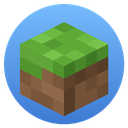
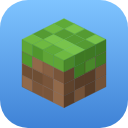
Add Codenames, Fortnite, PUBG, Brawlhalla, ARK and Warframe game roles
- Six new game roles with their emojis, same as the first five: no colour,
  no permissions, at the bottom of the role list with Other right above
  @everyone.
- All game emojis are now app-icon style tiles built from the games' own
  logos (Valorant, Fortnite, PUBG, Roblox from their logo artwork; Among
  Us crewmate and Minecraft grass block; Brawlhalla, ARK and Warframe
  traced from their app icons; Codenames agent card).

Claude-Session: https://claude.ai/code/session_0195VG55h43onPfKbabrZpGi

diff --git a/tests/gameRoles.test.js b/tests/gameRoles.test.js
@@ -52,15 +52,16 @@ describe('game roles', () => {
   test('creates colourless roles with no permissions and their emoji as icon, at the bottom', async () => {
     const { guild, cache } = guildWith({ roles: [makeRole('chaos', 'chaos', 1, { color: 5 })] });
     const result = await ensureGameRoles(guild);
-    assert.equal(result.created, 5);
-    assert.equal(result.icons, 5);
+    assert.equal(result.created, GAME_ROLES.length);
+    assert.equal(result.icons, GAME_ROLES.length);
     for (const game of GAME_ROLES) {
       const role = [...cache.values()].find((r) => r.name === game.name);
       assert.equal(role.createdWith.color, 0);
       assert.deepEqual(role.createdWith.permissions, []);
       assert.equal(role.createdWith.icon, game.icon);
     }
-    assert.deepEqual(bottomNames(cache), ['Valorant', 'Among Us', 'Minecraft', 'Roblox', 'Other']);
+    assert.deepEqual(bottomNames(cache), GAME_ROLES.map((game) => game.name));
+    assert.equal(bottomNames(cache).at(-1), 'Other');
     assert.ok(cache.get('chaos').position > GAME_ROLES.length);
   });
 

diff --git a/src/services/gameRolesService.js b/src/services/gameRolesService.js
@@ -13,6 +13,12 @@ export const GAME_ROLES = [
   { name: 'Among Us', emoji: 'game_amongus' },
   { name: 'Minecraft', emoji: 'game_minecraft' },
   { name: 'Roblox', emoji: 'game_roblox' },
+  { name: 'Codenames', emoji: 'game_codenames' },
+  { name: 'Fortnite', emoji: 'game_fortnite' },
+  { name: 'PUBG', emoji: 'game_pubg' },
+  { name: 'Brawlhalla', emoji: 'game_brawlhalla' },
+  { name: 'ARK', emoji: 'game_ark' },
+  { name: 'Warframe', emoji: 'game_warframe' },
   { name: 'Other', emoji: 'game_other' },
 ].map((game) => ({ ...game, icon: path.join(EMOJI_DIR, `${game.emoji}.png`) }));
 
